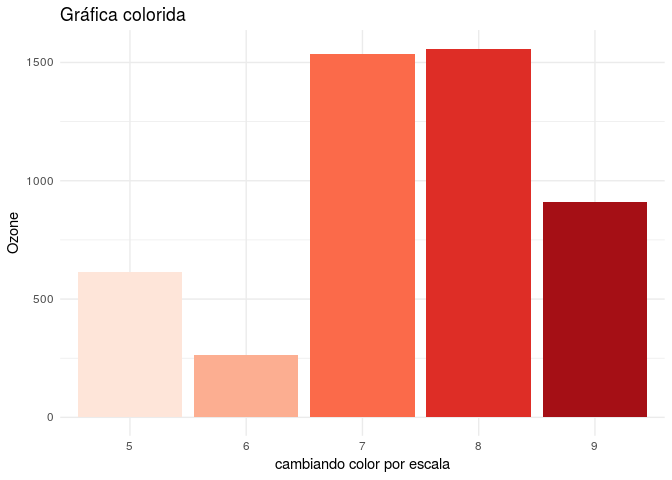
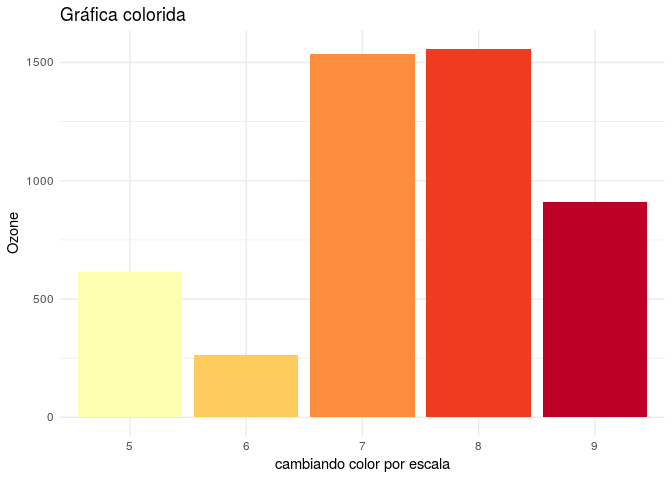
se agrega ejemplo de colores en geom_bar

Changed region(s): [[0.0938, 0.0938, 0.625, 0.875]]

diff --git a/Scalas_Bars.md b/Scalas_Bars.md
@@ -20,7 +20,7 @@
 ![](Scalas_Bars_files/figure-markdown_strict/unnamed-chunk-2-1.png)
 
     library(RColorBrewer)
-    cols <- brewer.pal(length(levels(factor(airquality$Month))), "Reds") # numero de niveles en el factor
+    cols <- brewer.pal(length(levels(factor(airquality$Month))), "YlOrRd") # numero de niveles en el factor
     names(cols) <- levels(factor(airquality$Month))
     ggplot(data = airquality, aes(x = factor(Month), y = Ozone, fill = factor(Month))) +    geom_bar(stat="identity") + 
         scale_fill_manual("legend", values = cols)  +
